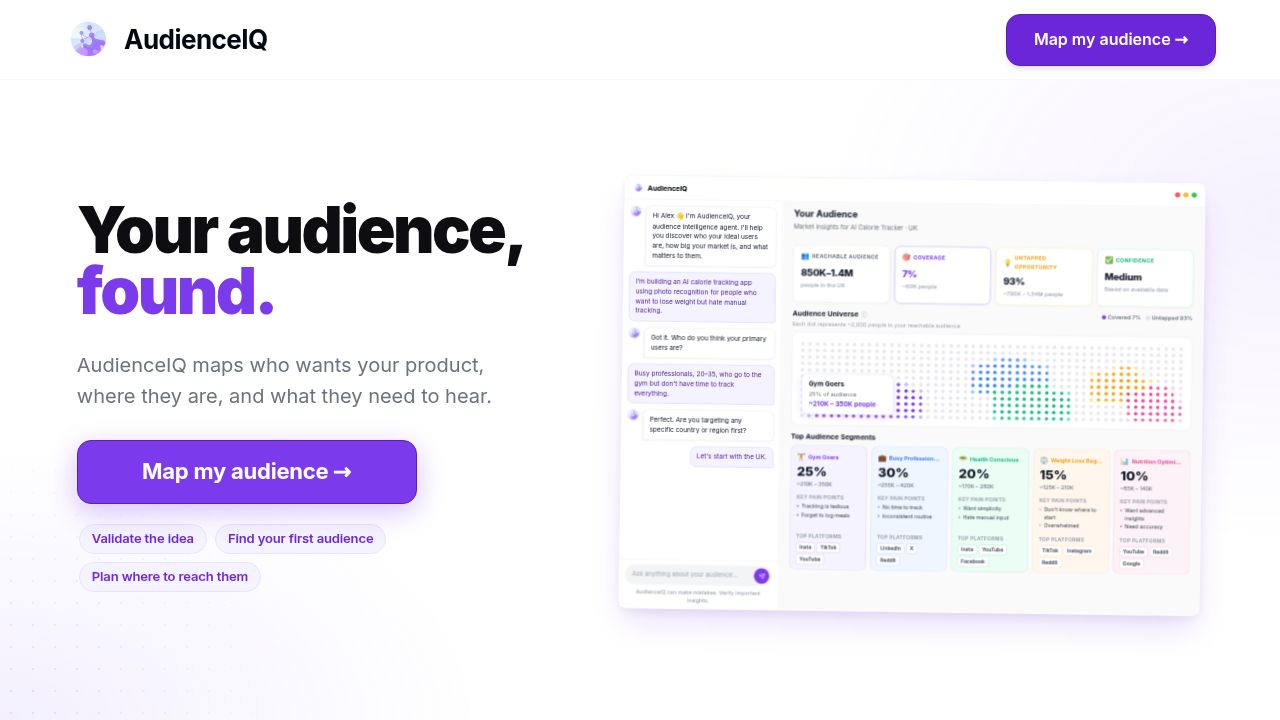
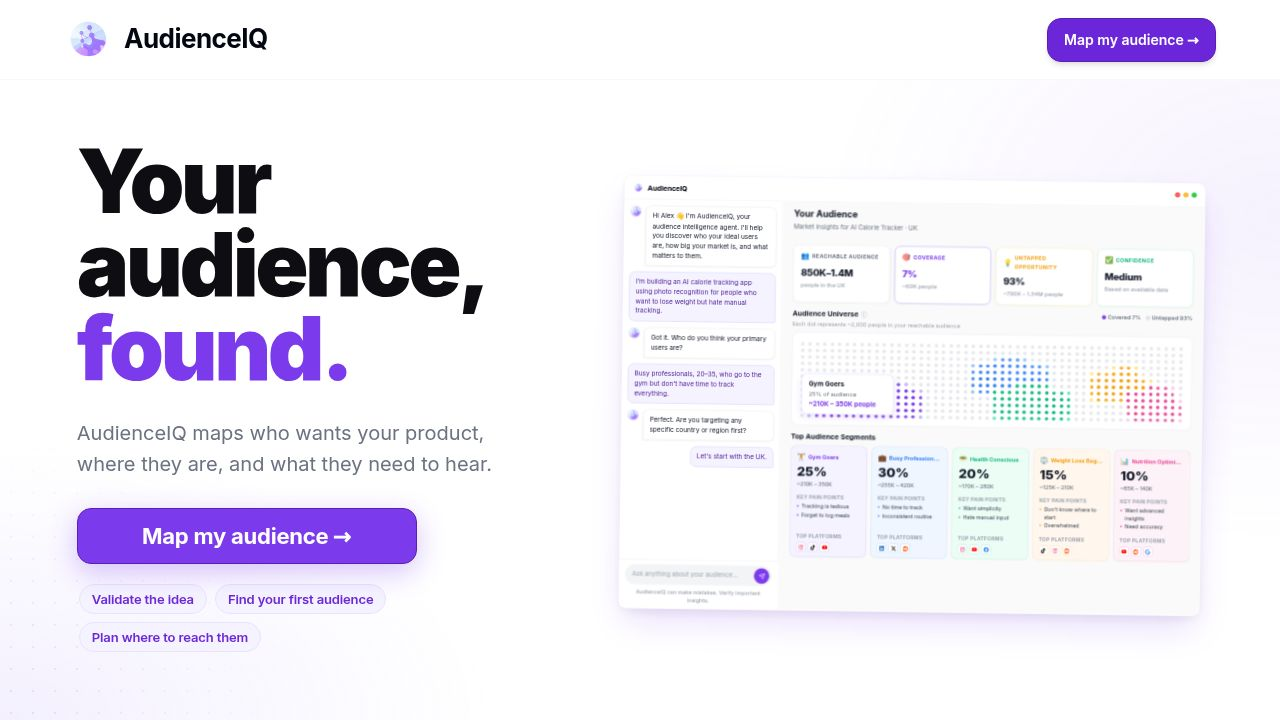
Adapt site layout for improved mobile phone viewing
Adjusted landing page and dashboard components for mobile responsiveness, including changes to text scaling, button sizes, and layout structure, while ensuring desktop views remain unaffected.

Replit-Commit-Author: Agent
Replit-Commit-Session-Id: cef32c71-124c-4ce1-a3e1-de4bae436862
Replit-Commit-Checkpoint-Type: full_checkpoint
Replit-Commit-Event-Id: 9bd61240-b5a3-49f2-b329-5645a0fc6d6d
Replit-Commit-Screenshot-Url: https://storage.googleapis.com/screenshot-production-us-central1/b05a419d-88bf-424f-9d14-1adaf1c79755/cef32c71-124c-4ce1-a3e1-de4bae436862/Ut3QrHi
Replit-Helium-Checkpoint-Created: true

diff --git a/artifacts/audense/src/pages/Dashboard.tsx b/artifacts/audense/src/pages/Dashboard.tsx
@@ -2,8 +2,9 @@ import { useState, useRef, useEffect, useCallback, useMemo } from "react";
 import { useLocation } from "wouter";
 import {
   Settings, HelpCircle, Send, Plus, Paperclip, X as XIcon, FileText, Image,
-  Home, Layers, User,
+  Home, Layers, User, MessageSquare, BarChart3,
 } from "lucide-react";
+import { useIsMobile } from "@/hooks/use-mobile";
 import {
   FaInstagram, FaTiktok, FaYoutube, FaLinkedin,
   FaXTwitter, FaReddit, FaFacebook, FaGoogle,
@@ -1207,6 +1208,8 @@ export default function Dashboard() {
   const [splitPct, setSplitPct] = useState<number>(loadSplit);
   const isDragging = useRef(false);
   const containerRef = useRef<HTMLDivElement>(null);
+  const isMobile = useIsMobile();
+  const [mobileTab, setMobileTab] = useState<"map" | "chat">("map");
 
   const onDividerMouseDown = useCallback((e: React.MouseEvent) => {
     e.preventDefault();
@@ -1844,19 +1847,90 @@ export default function Dashboard() {
       style={{
         height: "100vh",
         display: "flex",
+        flexDirection: isMobile ? "column" : "row",
         fontFamily: "Inter, sans-serif",
         background: "#F9F8FF",
         overflow: "hidden",
       }}
     >
+      {/* ── Mobile tab bar ─────────────────────────────────── */}
+      {isMobile && (
+        <div
+          style={{
+            display: "flex",
+            alignItems: "center",
+            background: "#fff",
+            borderBottom: "1px solid #E5E7EB",
+            flexShrink: 0,
+            padding: "0 8px",
+            gap: 0,
+          }}
+        >
+          <button
+            type="button"
+            onClick={() => {
+              if (authUser) { navigate("/"); return; }
+              const hasResearch = !!activeSessionId || loadSessions().length > 0 || !!getActiveSession() || !!ob?.productIdea || !!loadOnboarding() || messages.length > 2 || hasGuestResearch();
+              if (hasResearch) { setIsLeaveConfirmOpen(true); } else { navigate("/"); }
+            }}
+            style={{ background: "none", border: "none", padding: 8, cursor: "pointer", flexShrink: 0 }}
+          >
+            <img src={logoImg} alt="AudienceIQ" width={28} height={28} style={{ width: 28, height: 28, objectFit: "contain", borderRadius: 6 }} />
+          </button>
+          {([
+            { key: "chat" as const, label: "Chat", icon: <MessageSquare size={15} /> },
+            { key: "map" as const, label: "Map", icon: <BarChart3 size={15} /> },
+          ]).map(tab => (
+            <button
+              key={tab.key}
+              onClick={() => setMobileTab(tab.key)}
+              style={{
+                flex: 1,
+                display: "flex",
+                alignItems: "center",
+                justifyContent: "center",
+                gap: 6,
+                padding: "12px 0",
+                background: "none",
+                border: "none",
+                borderBottom: mobileTab === tab.key ? "2px solid #7C3AED" : "2px solid transparent",
+                color: mobileTab === tab.key ? "#7C3AED" : "#6B7280",
+                fontWeight: mobileTab === tab.key ? 700 : 500,
+                fontSize: 13,
+                cursor: "pointer",
+                transition: "all 0.15s",
+              }}
+            >
+              {tab.icon}
+              {tab.label}
+            </button>
+          ))}
+          <div style={{ display: "flex", alignItems: "center", gap: 2, flexShrink: 0 }}>
+            <button type="button" onClick={() => setIsHistoryOpen(v => !v)} title="History" style={{ background: "none", border: "none", padding: 6, cursor: "pointer", color: isHistoryOpen ? "#7C3AED" : "#9CA3AF" }}>
+              <Layers size={16} />
+            </button>
+            {!authUser && (
+              <button type="button" onClick={() => setIsAuthModalOpen(true)} title="Sign in" style={{ background: "none", border: "none", padding: 6, cursor: "pointer", color: "#9CA3AF" }}>
+                <User size={16} />
+              </button>
+            )}
+            <button type="button" onClick={() => setIsSettingsOpen(true)} title="Settings" style={{ background: "none", border: "none", padding: 6, cursor: "pointer", color: "#9CA3AF" }}>
+              <Settings size={16} />
+            </button>
+          </div>
+        </div>
+      )}
+
       {/* ── Left panel ─────────────────────────────────────── */}
       <div
         style={{
-          width: `${splitPct}%`,
+          width: isMobile ? "100%" : `${splitPct}%`,
           flexShrink: 0,
-          display: "flex",
+          display: isMobile && mobileTab !== "chat" ? "none" : "flex",
+          flex: isMobile ? 1 : undefined,
           background: "#fff",
           overflow: "hidden",
+          minHeight: 0,
         }}
       >
         {/* ── Icon rail ────────────────────────────────────── */}
@@ -1864,7 +1938,7 @@ export default function Dashboard() {
           style={{
             width: 64,
             flexShrink: 0,
-            display: "flex",
+            display: isMobile ? "none" : "flex",
             flexDirection: "column",
             alignItems: "center",
             borderRight: "1px solid #E5E7EB",
@@ -2283,22 +2357,24 @@ export default function Dashboard() {
       </div>
 
       {/* ── Divider ────────────────────────────────────────── */}
-      <div
-        onMouseDown={onDividerMouseDown}
-        style={{
-          width: 5,
-          flexShrink: 0,
-          cursor: "col-resize",
-          background: "#E5E7EB",
-          zIndex: 10,
-        }}
-      />
+      {!isMobile && (
+        <div
+          onMouseDown={onDividerMouseDown}
+          style={{
+            width: 5,
+            flexShrink: 0,
+            cursor: "col-resize",
+            background: "#E5E7EB",
+            zIndex: 10,
+          }}
+        />
+      )}
 
       {/* ── Right panel ────────────────────────────────────── */}
       <div
         style={{
           flex: 1,
-          display: "flex",
+          display: isMobile && mobileTab !== "map" ? "none" : "flex",
           flexDirection: "column",
           overflow: "hidden",
           minWidth: 0,

diff --git a/artifacts/audense/src/components/landing/Navbar.tsx b/artifacts/audense/src/components/landing/Navbar.tsx
@@ -13,7 +13,7 @@ export function Navbar() {
         paddingRight: "clamp(24px, 5vw, 72px)",
       }}
     >
-      <div className="flex items-center gap-3">
+      <div className="flex items-center gap-2 sm:gap-3 min-w-0">
         <img
           src={logoImg}
           alt="AudienceIQ Logo"
@@ -22,12 +22,12 @@ export function Navbar() {
           decoding="sync"
           loading="eager"
           fetchPriority="high"
-          style={{ width: 48, height: 48, objectFit: "contain" }}
-          className="rounded-lg"
+          style={{ width: 40, height: 40, objectFit: "contain" }}
+          className="rounded-lg sm:!w-12 sm:!h-12 flex-shrink-0"
         />
         <span
-          className="font-bold tracking-tight text-foreground"
-          style={{ fontSize: 26, letterSpacing: "-0.02em" }}
+          className="font-bold tracking-tight text-foreground text-lg sm:text-[26px] truncate"
+          style={{ letterSpacing: "-0.02em" }}
         >
           AudienceIQ
         </span>
@@ -35,11 +35,12 @@ export function Navbar() {
 
       <Button
         onClick={() => navigate("/onboarding")}
-        className="bg-primary hover:bg-primary/90 text-primary-foreground font-semibold shadow-md hover:shadow-lg transition-all hover:scale-105 active:scale-95"
-        style={{ width: 210, height: 52, fontSize: 16, borderRadius: 14 }}
+        className="bg-primary hover:bg-primary/90 text-primary-foreground font-semibold shadow-md hover:shadow-lg transition-all hover:scale-105 active:scale-95 flex-shrink-0"
+        style={{ height: 44, fontSize: 14, borderRadius: 14, paddingLeft: 16, paddingRight: 16 }}
         data-testid="button-map-audience-nav"
       >
-        Map my audience →
+        <span className="hidden sm:inline">Map my audience →</span>
+        <span className="sm:hidden">Start →</span>
       </Button>
     </header>
   );

diff --git a/artifacts/audense/src/components/landing/Hero.tsx b/artifacts/audense/src/components/landing/Hero.tsx
@@ -10,7 +10,7 @@ export function Hero() {
       <div style={{ display: "flex", flexDirection: "column", gap: 28 }}>
         <h1
           style={{
-            fontSize: "clamp(56px, 5vw, 88px)",
+            fontSize: "clamp(36px, 7vw, 88px)",
             fontWeight: 900,
             lineHeight: 0.95,
             letterSpacing: "-0.04em",
@@ -19,7 +19,7 @@ export function Hero() {
             margin: 0,
           }}
         >
-          <span style={{ whiteSpace: "nowrap" }}>Your audience,</span>
+          Your audience,
           <br />
           <span style={{ color: "#7C3AED" }}>found.</span>
         </h1>
@@ -42,9 +42,9 @@ export function Hero() {
             data-testid="button-map-audience-hero"
             onClick={() => navigate("/onboarding")}
             style={{
-              width: 340,
-              height: 64,
-              fontSize: 22,
+              width: "min(340px, 100%)",
+              height: 56,
+              fontSize: "clamp(18px, 3vw, 22px)",
               fontWeight: 700,
               borderRadius: 14,
               background: "#7C3AED",

diff --git a/artifacts/audense/src/index.css b/artifacts/audense/src/index.css
@@ -351,13 +351,13 @@
 .hero-grid {
   display: flex;
   flex-direction: column;
-  gap: 48px;
+  gap: 32px;
   align-items: stretch;
   justify-content: center;
-  padding-left: clamp(24px, 5vw, 72px);
-  padding-right: clamp(24px, 5vw, 72px);
-  padding-top: 56px;
-  padding-bottom: 56px;
+  padding-left: clamp(20px, 5vw, 72px);
+  padding-right: clamp(20px, 5vw, 72px);
+  padding-top: 36px;
+  padding-bottom: 36px;
   width: 100%;
   max-width: 1440px;
   margin: 0 auto;

diff --git a/replit.md b/replit.md
@@ -28,6 +28,25 @@ See the `pnpm-workspace` skill for workspace structure, TypeScript setup, and pa
 
 ## Versions
 
+### v4 — Mobile-responsive layout (May 2026)
+
+All pages now work properly on phone screens (< 768px):
+
+- **Landing Navbar**: CTA shrinks to "Start →" on mobile; brand text + logo
+  scale down; no more overflow.
+- **Hero**: title clamp lowered from 56px min to 36px; CTA button uses
+  `min(340px, 100%)`; removed `whiteSpace: "nowrap"` on heading.
+- **Hero grid CSS**: tighter mobile padding (20px sides, 36px top/bottom).
+- **Dashboard**: uses `useIsMobile()` hook (768px breakpoint). On mobile:
+  - Tab bar replaces the desktop icon rail (Chat | Map tabs + logo + settings).
+  - Only the active tab's panel is shown (full-width, full-height).
+  - Divider and split-drag are hidden.
+  - Desktop layout is completely unchanged.
+- **Onboarding / Help / Privacy / Terms**: already responsive — no changes needed.
+
+Verified via Playwright e2e at 390×844 viewport: full onboarding → generate →
+dashboard Chat/Map tab switching → /help all pass.
+
 ### v3 — Audience-segment quality fix (May 2026)
 
 `/api/audience/generate` previously returned identical generic segment names
